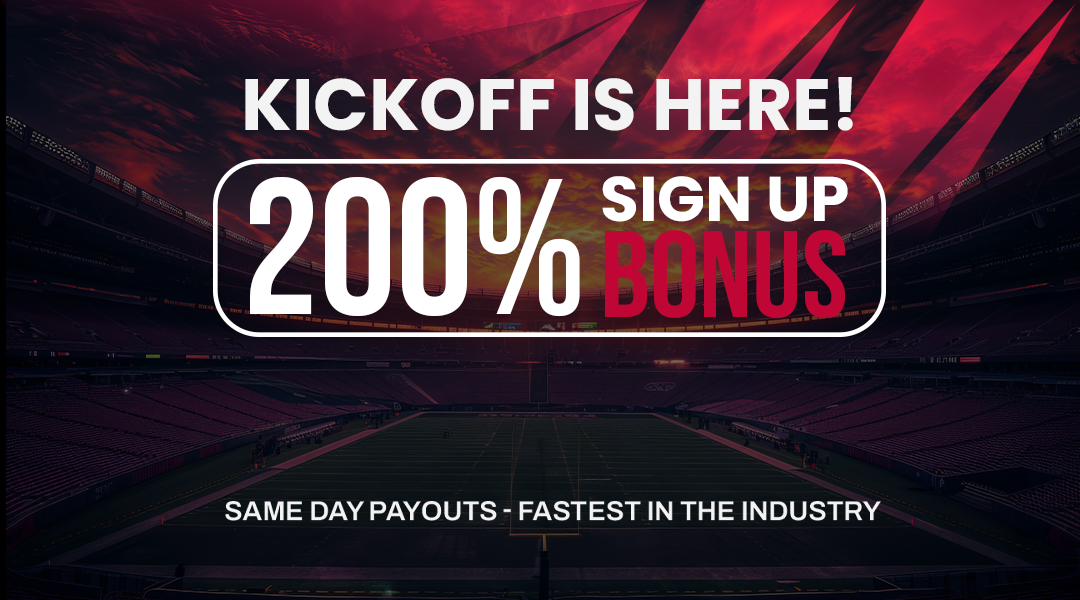
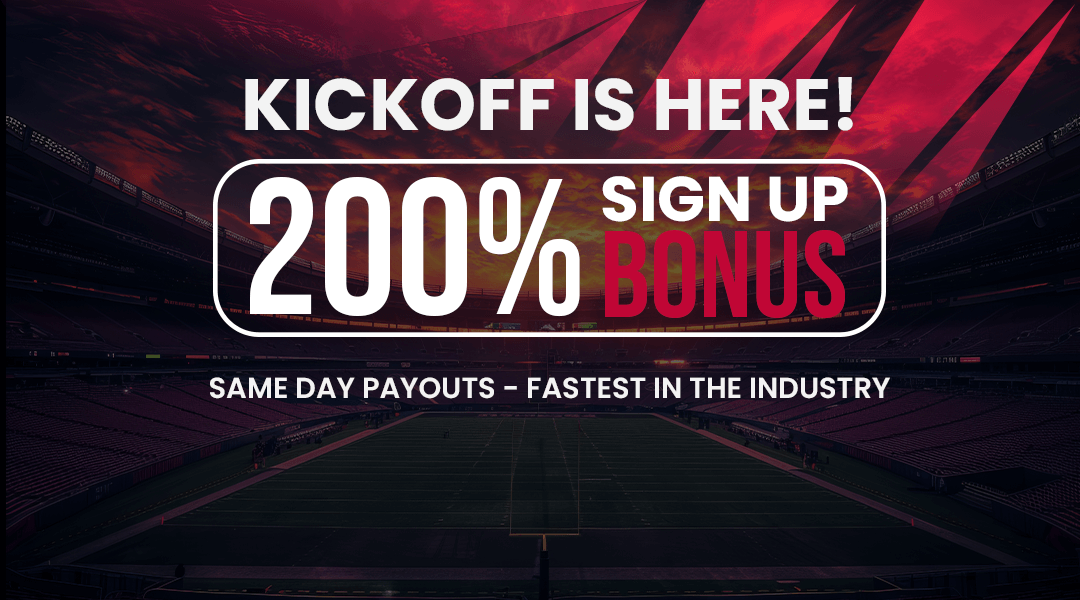
change first mobile slide

Changed region(s): [[0.2139, 0.81, 0.825, 0.87], [0.4889, 0.63, 0.825, 0.66], [0.1833, 0.63, 0.4583, 0.66]]

diff --git a/src/components/hero/hero-carousel.tsx b/src/components/hero/hero-carousel.tsx
@@ -257,7 +257,7 @@ export function HeroCarousel() {
           {/* Hide all content for first and second slides, only show button at bottom */}
           {(currentSlide === 0 || currentSlide === 1) && (
             <div
-              className={`absolute left-1/2 -translate-x-1/2 transform ${currentSlide === 0 ? 'bottom-28' : 'bottom-20'}`}
+              className={`absolute left-1/2 -translate-x-1/2 transform bottom-20`}
             >
               <Button
                 size="lg"
